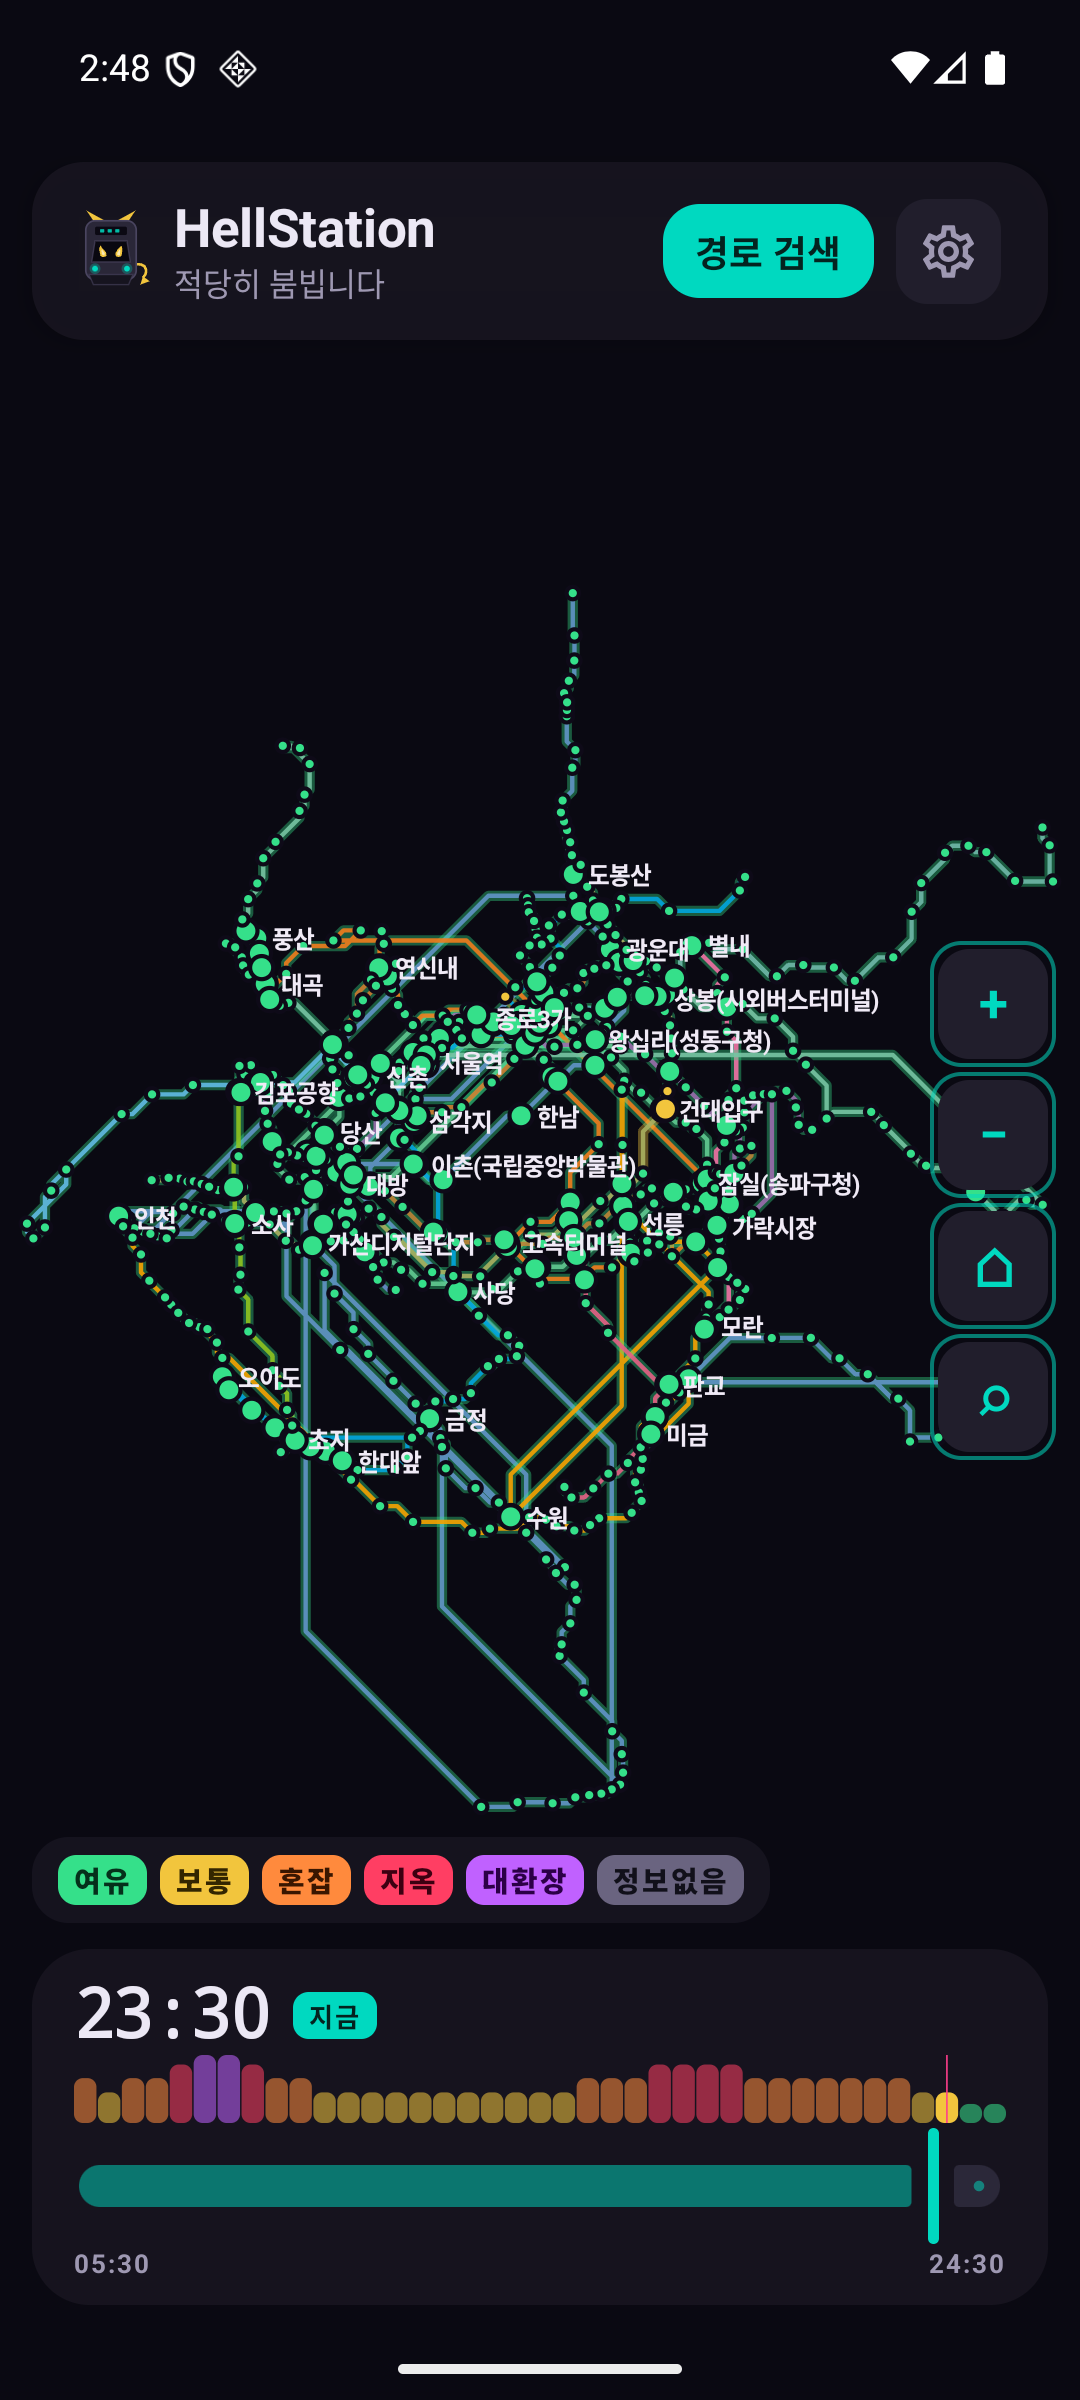
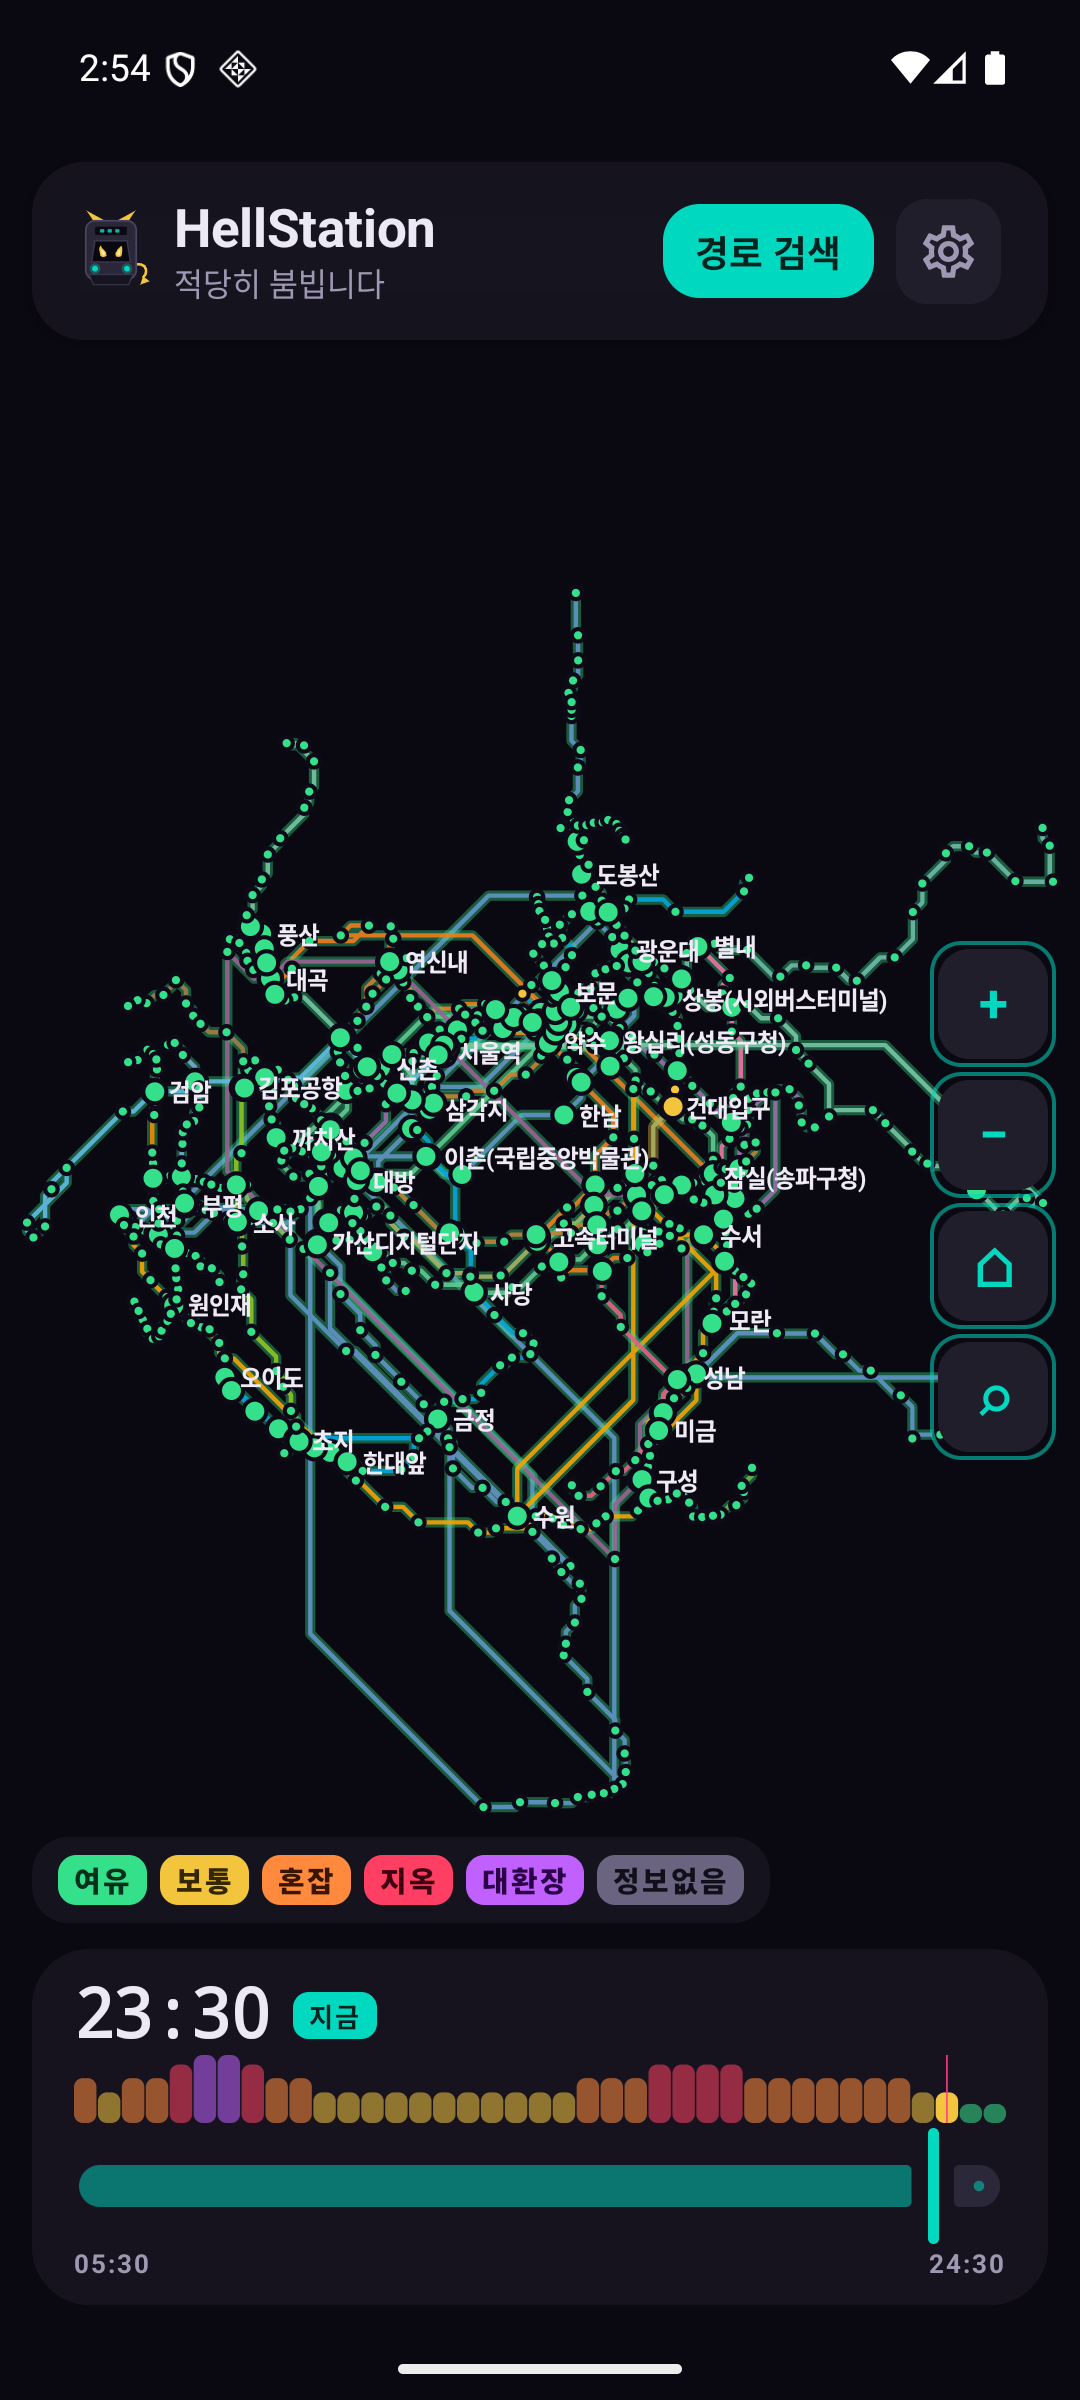
서울시 밖 노선 6개 추가 — 역 696 -> 806개
인천1·2호선, 에버라인, 의정부경전철, 김포골드라인, GTX-A.
역과 좌표는 열린데이터광장에 있는데 노선 정의가 없어서 버리고 있었습니다.

API 코드는 짐작하지 않고 실제로 호출해 확인했습니다.
- GTX-A 는 서울시 API 가 실제로 제공합니다. 수서·동탄에서 subwayId 1032 확인.
- 나머지 다섯은 인천교통공사·경기도 운영이라 서울시 도착정보 API 가
  열차를 하나도 주지 않습니다. 인천시청·검단오류·운양에서 0대 확인.
  그래서 apiCode 를 9xxx 로 두었습니다 — 서울시 코드는 전부 10xx 이라
  절대 겹치지 않고, "이건 앱 안에서만 쓰는 식별자"라는 표시가 됩니다.
  없는 코드를 그럴듯하게 지어내면 언젠가 엉뚱한 노선에 열차가 붙습니다.
- hasRealtime 으로 그 차이를 코드에서 물어볼 수 있게 했습니다.

배지 글자도 고쳤습니다. 앞 두 글자만 쓰면 인천1호선과 인천2호선이 둘 다
"인천"이 되어 구분이 안 됩니다. 이제 "인1"·"인2" 이고, GTX-A 는 노선도와
같이 "A" 입니다. 노선 전체에서 배지가 겹치지 않는지 테스트로 막았습니다.

diff --git a/app/src/test/java/com/hellstation/domain/TimeAndNameTest.kt b/app/src/test/java/com/hellstation/domain/TimeAndNameTest.kt
@@ -6,6 +6,7 @@ import com.hellstation.domain.model.ArrivalState
 import com.hellstation.domain.model.DayType
 import com.hellstation.domain.model.Direction
 import com.hellstation.domain.model.LineId
+import com.hellstation.ui.copy.HellCopy
 import com.hellstation.domain.model.StationId
 import com.hellstation.domain.model.TimeSlot
 import com.hellstation.domain.model.Train
@@ -227,9 +228,45 @@ class TimeAndNameTest {
         assertEquals(LineId.LINE_1, LineId.fromDisplayName("01호선"))
         assertEquals(LineId.UI_SINSEOL, LineId.fromDisplayName("우이신설선"))
 
-        // 아직 모델에 없는 노선은 여전히 null 이어야 합니다.
-        // 여기서 아무거나 돌려주면 엉뚱한 노선에 역이 붙습니다.
-        assertNull(LineId.fromDisplayName("인천2호선"))
-        assertNull(LineId.fromDisplayName("GTX-A"))
+        // 모르는 이름에는 아무거나 돌려주면 안 됩니다.
+        // 여기서 대충 짐작하면 엉뚱한 노선에 역이 붙습니다.
+        assertNull(LineId.fromDisplayName("있지도않은선"))
+        assertNull(LineId.fromDisplayName(""))
+    }
+
+    @Test
+    fun `서울시 밖 노선도 이름으로 이어진다`() {
+        assertEquals(LineId.INCHEON_1, LineId.fromDisplayName("인천선"))
+        assertEquals(LineId.INCHEON_1, LineId.fromDisplayName("인천1호선"))
+        assertEquals(LineId.INCHEON_2, LineId.fromDisplayName("인천2호선"))
+        assertEquals(LineId.EVERLINE, LineId.fromDisplayName("용인경전철"))
+        assertEquals(LineId.EVERLINE, LineId.fromDisplayName("에버라인선"))
+        assertEquals(LineId.UIJEONGBU, LineId.fromDisplayName("의정부경전철"))
+        assertEquals(LineId.GIMPO_GOLD, LineId.fromDisplayName("김포도시철도"))
+        assertEquals(LineId.GTX_A, LineId.fromDisplayName("GTX-A"))
+        assertEquals(LineId.GTX_A, LineId.fromDisplayName("수도권 광역급행철도"))
+    }
+
+    @Test
+    fun `실시간을 받을 수 있는 노선인지 구분한다`() {
+        // 서울시 코드(10xx)만 실시간 도착정보가 옵니다.
+        assertTrue(LineId.LINE_1.hasRealtime)
+        assertTrue(LineId.GTX_A.hasRealtime)      // 수서·동탄에서 실제 확인
+        assertFalse(LineId.INCHEON_1.hasRealtime) // 인천교통공사 운영
+        assertFalse(LineId.GIMPO_GOLD.hasRealtime)
+    }
+
+    @Test
+    fun `노선 배지 글자는 서로 겹치지 않는다`() {
+        // "인천"으로만 줄이면 1호선과 2호선이 배지에서 구분되지 않습니다.
+        assertEquals("인1", HellCopy.lineShort(LineId.INCHEON_1))
+        assertEquals("인2", HellCopy.lineShort(LineId.INCHEON_2))
+        assertEquals("A", HellCopy.lineShort(LineId.GTX_A))
+        assertEquals("1", HellCopy.lineShort(LineId.LINE_1))
+        assertEquals("신분", HellCopy.lineShort(LineId.SINBUNDANG))
+
+        // 노선 전체에서 배지 글자가 하나도 겹치면 안 됩니다.
+        val labels = LineId.entries.map { HellCopy.lineShort(it) }
+        assertEquals(labels.size, labels.toSet().size)
     }
 }

diff --git a/app/src/main/java/com/hellstation/domain/model/LineId.kt b/app/src/main/java/com/hellstation/domain/model/LineId.kt
@@ -33,7 +33,28 @@ enum class LineId(
     UI_SINSEOL("1092", "우이신설선", null),
     SEOHAE("1093", "서해선", null),
     GYEONGGANG("1081", "경강선", null),
+
+    // ── 서울시 실시간 API 범위 밖 ────────────────────────────────────────────
+    //
+    // 인천교통공사·경기도가 운영해서 서울시 도착정보 API 가 **열차를 하나도 주지 않습니다**
+    // (인천시청·검단오류·운양에서 직접 확인). 그래도 역과 좌표는 열린데이터광장에 있으므로
+    // 지도에 그리고 통계 어림값도 낼 수 있습니다.
+    //
+    // apiCode 가 `9`로 시작하는 것은 **서울시 코드가 아니라 앱 안에서만 쓰는 식별자**라는
+    // 표시입니다. 서울시 코드는 전부 `10xx` 이라 절대 겹치지 않습니다. 없는 코드를
+    // 그럴듯하게 지어내면 언젠가 엉뚱한 노선에 열차가 붙습니다.
+    INCHEON_1("9001", "인천1호선", null),
+    INCHEON_2("9002", "인천2호선", null),
+    EVERLINE("9003", "에버라인", null),
+    UIJEONGBU("9004", "의정부경전철", null),
+    GIMPO_GOLD("9005", "김포골드라인", null),
+
+    /** GTX-A 는 서울시 API 가 실제로 제공합니다(수서·동탄에서 subwayId 1032 확인). */
+    GTX_A("1032", "GTX-A", null),
     ;
+
+    /** 서울시 실시간 도착정보를 받을 수 있는 노선인가. */
+    val hasRealtime: Boolean get() = apiCode.startsWith("10")
 
     /** 통계 기준선(서울교통공사 CSV)을 쓸 수 있는 노선인가. */
     val hasBaseline: Boolean get() = csvLineNumber != null
@@ -93,6 +114,14 @@ enum class LineId(
             "우이신설경전철" to UI_SINSEOL,
             "신분당선(연장)" to SINBUNDANG,
             "신분당선(연장2)" to SINBUNDANG,
+
+            // 역정보 API 와 좌표 API 가 서로 다르게 부르는 노선들
+            "인천선" to INCHEON_1,
+            "용인경전철" to EVERLINE,
+            "에버라인선" to EVERLINE,
+            "의정부선" to UIJEONGBU,
+            "김포도시철도" to GIMPO_GOLD,
+            "수도권 광역급행철도" to GTX_A,
         )
 
         /**

diff --git a/app/src/main/java/com/hellstation/ui/copy/HellCopy.kt b/app/src/main/java/com/hellstation/ui/copy/HellCopy.kt
@@ -340,9 +340,22 @@ object HellCopy {
      * 숫자 노선은 숫자만, 이름 노선은 앞 두 글자를 씁니다.
      */
     fun lineShort(line: LineId): String {
-        // "9호선"은 csvLineNumber가 없으므로(통계 미제공) 이름에서 숫자를 뽑습니다.
-        val digits = line.displayName.takeWhile { it.isDigit() }
-        return if (digits.isNotEmpty()) digits else line.displayName.removeSuffix("선").take(2)
+        val name = line.displayName
+
+        // "1호선" -> "1"
+        val leading = name.takeWhile { it.isDigit() }
+        if (leading.isNotEmpty()) return leading
+
+        // "인천1호선" -> "인1". 앞 두 글자만 쓰면 인천1호선과 인천2호선이
+        // 똑같이 "인천"이 되어 배지로 구분이 안 됩니다.
+        val embedded = name.firstOrNull { it.isDigit() }
+        if (embedded != null) return "${name.first()}$embedded"
+
+        // "GTX-A" -> "A". 실제 노선도에서도 알파벳 하나로 표기합니다.
+        val afterDash = name.substringAfter('-', "")
+        if (afterDash.isNotBlank() && afterDash.length <= 2) return afterDash
+
+        return name.removeSuffix("선").take(2)
     }
 
     /**

diff --git a/app/src/main/java/com/hellstation/ui/theme/Color.kt b/app/src/main/java/com/hellstation/ui/theme/Color.kt
@@ -220,6 +220,12 @@ object LineColors {
         LineId.UI_SINSEOL to Color(0xFFB7C450),
         LineId.SEOHAE to Color(0xFF8FC31F),
         LineId.GYEONGGANG to Color(0xFF0054A6),
+        LineId.INCHEON_1 to Color(0xFF7CA8D5),
+        LineId.INCHEON_2 to Color(0xFFED8B00),
+        LineId.EVERLINE to Color(0xFF6FB245),
+        LineId.UIJEONGBU to Color(0xFFFDA600),
+        LineId.GIMPO_GOLD to Color(0xFFA17E46),
+        LineId.GTX_A to Color(0xFF9A6292),
     )
 
     fun of(line: LineId): Color = map[line] ?: Color(0xFF8C8A93)
